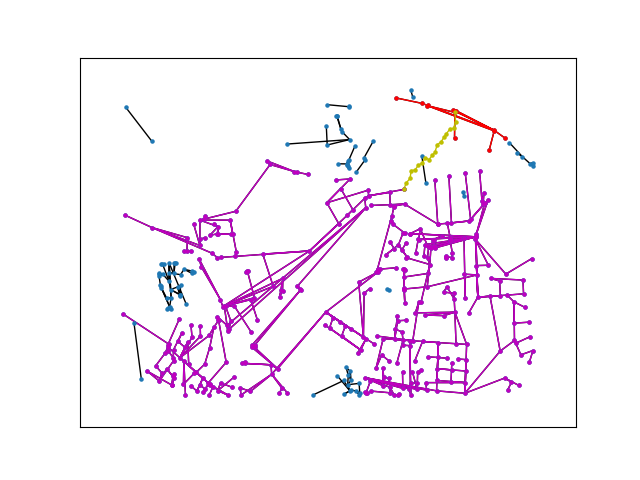
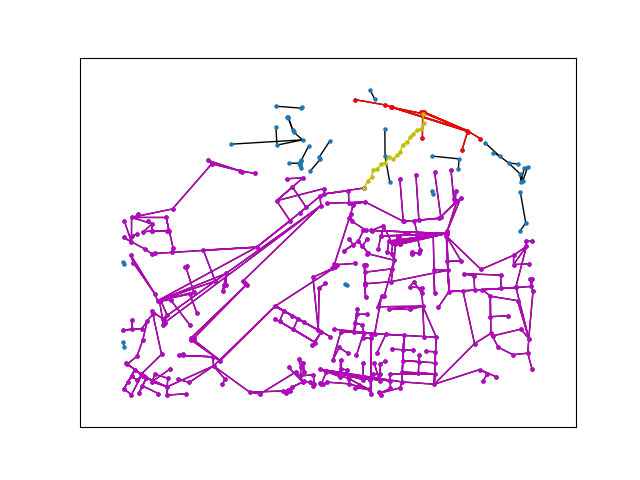
Modify bounding box of St Andrews

diff --git a/tests/test_graph.py b/tests/test_graph.py
@@ -1,5 +1,6 @@
 import unittest
 from scripts.config import Config
+from scripts.exception import NoSuggestedPathException
 from scripts.model import Model
 from scripts.graph import GraphProcessing
 from unittest.mock import Mock
@@ -7,18 +8,39 @@ from unittest.mock import Mock
 
 class GraphProcessingTestCase(unittest.TestCase):
     def setUp(self) -> None:
-        self.mock_model = Mock(spec=Model)
         self.mock_config = Mock(spec=Config)
         self.mock_config.zero_cost = False
         self.mock_config.neighbour_eps = 0.1
+
+        self.mock_model = Mock(spec=Model)
         self.mock_model.config = self.mock_config
         self.mock_model.centre = (0.3, 0.5)
+        self.mock_model.get_adj_list.return_value = {0: [1],
+                                                     1: [0],
+                                                     2: [3],
+                                                     3: [2]}
+        self.mock_model.get_node_pos.return_value = {0: (0.7, 0.5),
+                                                     1: (0.3, 0.4),
+                                                     2: (0.1, 0.2),
+                                                     3: (0.2, 0.3)}
+
+        self.graph = GraphProcessing(self.mock_model)
+
+    def test_preprocessing_fully_connected(self):
         self.mock_model.get_adj_list.return_value = {0: [1],
                                                      1: [0]}
         self.mock_model.get_node_pos.return_value = {0: (0.7, 0.5),
                                                      1: (0.3, 0.4)}
 
-        self.graph = GraphProcessing(self.mock_model)
+        graph = GraphProcessing(self.mock_model)
+        with self.assertRaises(NoSuggestedPathException):
+            graph.preprocessing()
 
-    def test(self):
+    def test_preprocessing_not_fully_connected(self):
+        largest_components = self.graph.preprocessing()
+
+        expected = [{0, 1}, {2, 3}]
+        self.assertEqual(expected, largest_components)
+
+    def test_set_zero_cost(self):
         pass

diff --git a/tests/test_model.py b/tests/test_model.py
@@ -8,13 +8,13 @@ from unittest.mock import Mock
 
 class ModelTestCase(unittest.TestCase):
     def setUp(self) -> None:
-        self.mock_data_fetcher = Mock(spec=DataFetcher)
-
         self.mock_config = Mock(spec=Config)
         self.mock_config.bounding_box = BoundingBox(node_id=123, south=0.1, west=0.2, north=0.3, east=0.4)
         self.mock_config.threshold = 0.5
 
+        self.mock_data_fetcher = Mock(spec=DataFetcher)
         self.mock_data_fetcher.config = self.mock_config
+
         self.model = Model(self.mock_data_fetcher)
 
     def test_get_node_pos(self):
@@ -44,7 +44,7 @@ class ModelTestCase(unittest.TestCase):
         }
         score = self.model.eval_way(mock_way)
 
-        self.assertEqual(score, 1)
+        self.assertEqual(1, score)
 
     def test_eval_way_empty_tag(self):
         weighted_tags = WeightedTags({
@@ -61,7 +61,7 @@ class ModelTestCase(unittest.TestCase):
         mock_way.tags = {}
         score = self.model.eval_way(mock_way)
 
-        self.assertEqual(score, 0)
+        self.assertEqual(0, score)
 
     def test_eval_way_tag_does_not_exist(self):
         weighted_tags = WeightedTags({
@@ -80,7 +80,7 @@ class ModelTestCase(unittest.TestCase):
         }
         score = self.model.eval_way(mock_way)
 
-        self.assertEqual(score, 0)
+        self.assertEqual(0, score)
 
     def test_eval_way_value_does_not_exist(self):
         weighted_tags = WeightedTags({
@@ -99,7 +99,7 @@ class ModelTestCase(unittest.TestCase):
         }
         score = self.model.eval_way(mock_way)
 
-        self.assertEqual(score, 0)
+        self.assertEqual(0, score)
 
     def test_count_node_links(self):
         mock_node_0 = Mock(spec=overpy.Node)

diff --git a/scripts/model.py b/scripts/model.py
@@ -52,6 +52,8 @@ class Model:
     def ways_to_adj_list(hyper_edges: List[List[overpy.Node]], link_count: Dict[int, int]) -> Dict[int, List[int]]:
         adj_list: Dict[int, List[int]] = {}
         for h_edge in hyper_edges:
+            if len(h_edge) == 0:
+                continue
             cur_pointer = 0
             cur_node = h_edge[cur_pointer]
             next_pointer = cur_pointer + 1

diff --git a/tests/test_data_fetcher.py b/tests/test_data_fetcher.py
@@ -11,6 +11,7 @@ class DataFetcherTestCase(unittest.TestCase):
         self.mock_api = mock_api
         self.mock_config = Mock(spec=Config)
         self.mock_config.bounding_box = BoundingBox(node_id=123, south=0.1, west=0.2, north=0.3, east=0.4)
+
         self.data_fetcher = DataFetcher(self.mock_config)
 
         self.mock_node = Mock(spec=overpy.Node)

diff --git a/scripts/exception.py b/scripts/exception.py
@@ -1,2 +1,6 @@
 class NoSuggestedPathException(Exception):
     pass
+
+
+class NoPathFoundException(Exception):
+    pass
